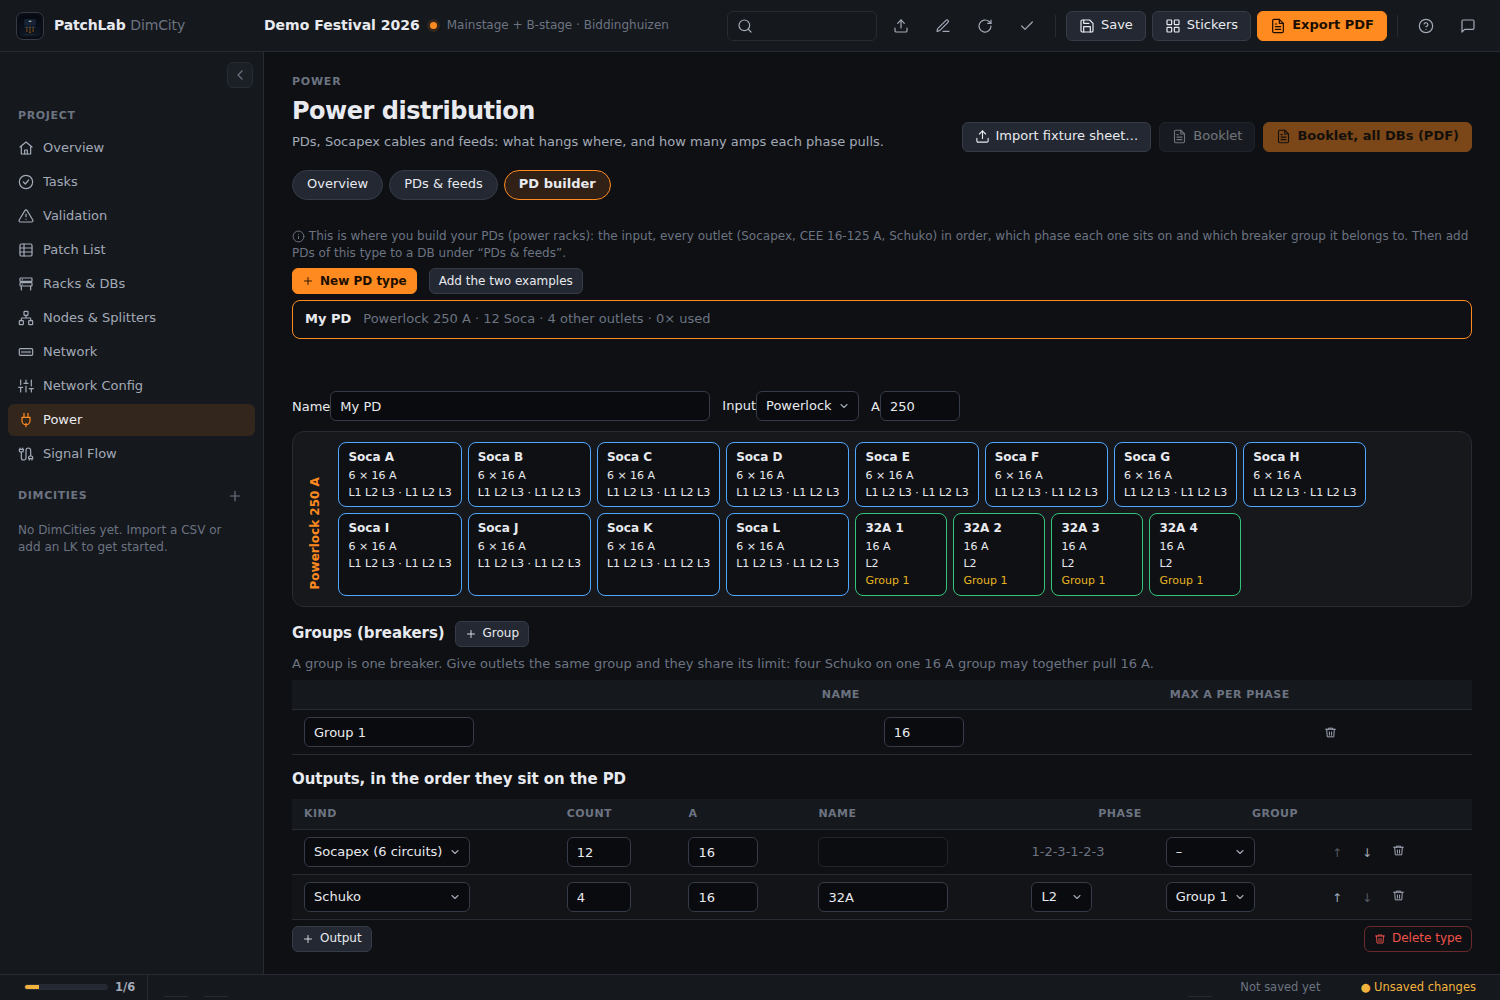
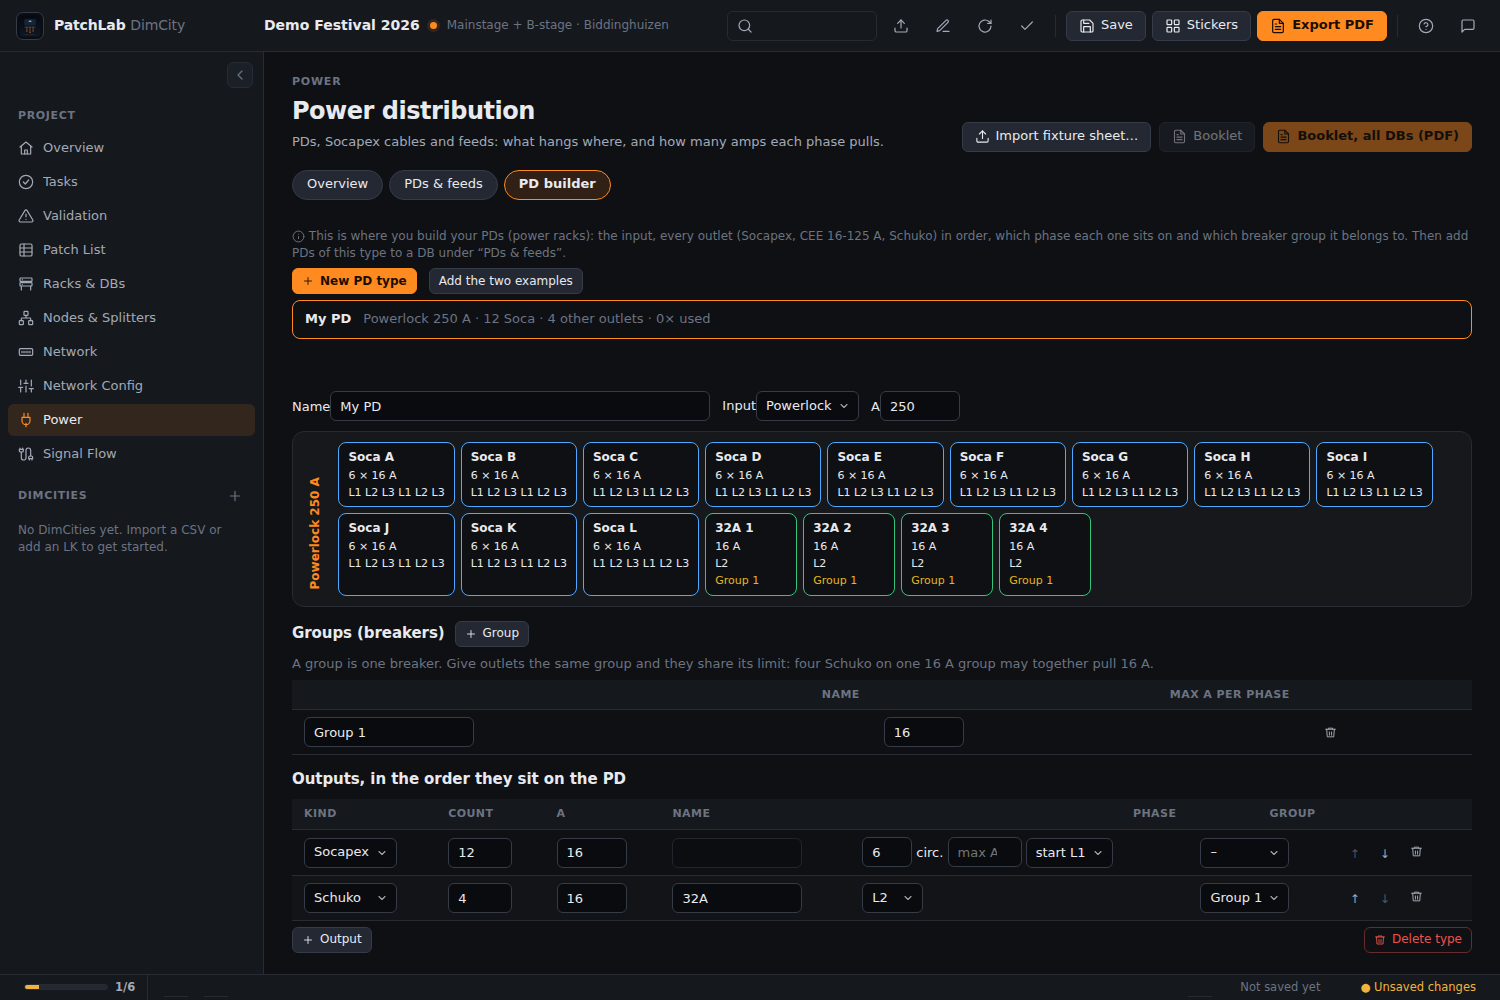
PD builder: Han 16 / Harting outputs, circuits per connector, start phase per output, output limit per phase (learned from PatchPrinter templates)
Claude-Session: https://claude.ai/code/session_011zJcwnePXPnek3P52mJGYA

diff --git a/ui/power.js b/ui/power.js
@@ -92,10 +92,9 @@
     const max = (p.feeds.find(f => f.id === d.feedId)?.max) || 0;
     const rows = [];
     for(const s of r.slots){
-      const circs = [1, 2, 3, 4, 5, 6], c = s.data;
-      circs.forEach((n, i) => { const k = c?.circuits.get(n), fx = k?.fixtures || [], ph = k ? k.phase : PW.phaseOf(n), a = k ? k.amps : 0;
-        rows.push(`<tr class="${i === 0 ? 'pw-first' : ''}">${i === 0 ? `<td rowspan="6" class="pw-soca">Soca ${s.letter}${s.cable ? `<br><small>${esc(s.cable)}</small>` : ''}</td>` : ''}<td>${r.slots.indexOf(s) + 1}.${n}</td><td>${esc(PW.dmxLabel(fx))}</td><td>${s.cable ? `${esc(s.cable)}-${n}` : ''}</td><td>${esc(PW.unitRanges(fx.map(f => f.unit)))}</td><td>${esc(PW.fixturesText(fx))}</td><td>${esc(PW.positionText(fx))}</td>${[1, 2, 3].map(q => `<td class="pw-n ${a > p.settings.circuitMax && ph === q ? 'bad' : ''}">${ph === q && a ? r1(a) : ''}</td>`).join('')}</tr>`); });
-      rows.push(`<tr class="pw-sum"><td colspan="7">Total Soca ${s.letter}</td>${phaseCells(s.perPhase)}</tr>`);
+      s.circs.forEach((k, i) => { const n = k.n, fx = k.fixtures, ph = k.phase, a = k.amps;
+        rows.push(`<tr class="${i === 0 ? 'pw-first' : ''}">${i === 0 ? `<td rowspan="${s.circs.length}" class="pw-soca">${esc(s.label)}${s.cable ? `<br><small>${esc(s.cable)}</small>` : ''}</td>` : ''}<td>${r.slots.indexOf(s) + 1}.${n}</td><td>${esc(PW.dmxLabel(fx))}</td><td>${s.cable ? `${esc(s.cable)}-${n}` : ''}</td><td>${esc(PW.unitRanges(fx.map(f => f.unit)))}</td><td>${esc(PW.fixturesText(fx))}</td><td>${esc(PW.positionText(fx))}</td>${[1, 2, 3].map(q => `<td class="pw-n ${a > p.settings.circuitMax && ph === q ? 'bad' : ''}">${ph === q && a ? r1(a) : ''}</td>`).join('')}</tr>`); });
+      rows.push(`<tr class="pw-sum"><td colspan="7">Total ${esc(s.label)}</td>${phaseCells(s.perPhase)}</tr>`);
     }
     const man = r.manual.map(o => { const m = d.manual[o.key] || {}; return `<tr><td>${esc(o.label)}</td><td><input data-man="${esc(d.id)}" data-key="${esc(o.key)}" data-k="label" value="${esc(m.label || '')}" style="width:160px"></td><td><input data-man="${esc(d.id)}" data-key="${esc(o.key)}" data-k="location" value="${esc(m.location || '')}" style="width:120px"></td>${['l1', 'l2', 'l3'].map((k, qi) => `<td>${o.phase && o.phases !== 3 && o.phase !== qi + 1 ? '' : `<input data-man="${esc(d.id)}" data-key="${esc(o.key)}" data-k="${k}" type="number" step="0.1" min="0" value="${m[k] || ''}" style="width:64px">`}</td>`).join('')}</tr>`; }).join('');
     return `<div class="pw-sec"><div class="pw-bar"><button id="pwBack">← ${t('Back', 'Terug')}</button><b style="font-size:18px">${esc(d.id)}</b><span class="subtle">${esc(r.type?.name || '')} · ${esc(p.feeds.find(f => f.id === d.feedId)?.name || t('no feed', 'geen voeding'))}</span><span style="flex:1"></span><b>${r.perPhase.map(r1).join(' / ')} A</b></div>
@@ -107,10 +106,11 @@
 
   // ---------- PD types: the PD builder ----------
   const PH = { 0:'', 1:'L1', 2:'L2', 3:'L3' }, PHC = { 1:'#a8652a', 2:'#3a3a3a', 3:'#8a8a8a' };
+  const multi = o => o.kind === 'soca';
   function typePreview(ty){
     const outs = PW.outletsOf(ty), gname = id => (ty.groups || []).find(g => g.id === id)?.name || '';
     if(!outs.length) return '';
-    const chip = o => { const ph = o.kind === 'soca' ? 'L1 L2 L3 · L1 L2 L3' : o.phases === 3 ? 'L1 L2 L3' : (PH[o.phase] || t('any phase', 'elke fase')); return `<div class="pw-out ${o.kind}"><b>${esc(o.label)}</b><span>${o.kind === 'soca' ? '6 × ' : ''}${o.amps || ''} A</span><span>${ph}</span>${o.group ? `<em>${esc(gname(o.group))}</em>` : ''}</div>`; };
+    const chip = o => { const ph = o.kind === 'soca' ? Array.from({ length: o.circuits }, (_, i) => 'L' + ((i + o.start) % 3 + 1)).join(' ') : o.phases === 3 ? 'L1 L2 L3' : (PH[o.phase] || t('any phase', 'elke fase')); return `<div class="pw-out ${o.kind}"><b>${esc(o.label)}</b><span>${o.kind === 'soca' ? o.circuits + ' × ' : ''}${o.amps || ''} A</span><span>${ph}</span>${o.group ? `<em>${esc(gname(o.group))}</em>` : ''}</div>`; };
     return `<div class="pw-front"><div class="pw-front-in"><span>${esc(ty.input?.kind || '')} ${ty.input?.amps || ''} A</span></div><div class="pw-front-outs">${outs.map(chip).join('')}</div></div>`;
   }
   function typesTab(p){
@@ -124,14 +124,14 @@
       <div class="subtle" style="margin-bottom:6px">${t('A group is one breaker. Give outlets the same group and they share its limit: four Schuko on one 16 A group may together pull 16 A.', 'Een groep is één automaat. Geef uitgangen dezelfde groep en ze delen zijn limiet: vier Schuko op één groep van 16 A mogen samen 16 A trekken.')}</div>
       ${(ty.groups || []).length ? `<table class="data-table pw-t"><thead><tr><th>${t('Name', 'Naam')}</th><th>${t('Max A per phase', 'Max A per fase')}</th><th></th></tr></thead><tbody>${ty.groups.map((g, i) => `<tr><td><input data-g="${i}" data-k="name" value="${esc(g.name)}" style="width:170px"></td><td><input data-g="${i}" data-k="amps" type="number" min="0" value="${g.amps || ''}" style="width:80px"></td><td><button class="sm ghost" data-delg="${i}">${I('trash', 13)}</button></td></tr>`).join('')}</tbody></table>` : ''}
       <h3>${t('Outputs, in the order they sit on the PD', 'Uitgangen, in de volgorde waarin ze op de PD zitten')}</h3><table class="data-table pw-t"><thead><tr><th>${t('Kind', 'Soort')}</th><th>${t('Count', 'Aantal')}</th><th>A</th><th>${t('Name', 'Naam')}</th><th>${t('Phase', 'Fase')}</th><th>${t('Group', 'Groep')}</th><th></th></tr></thead><tbody>
-      ${ty.outputs.map((o, i) => `<tr><td>${sel(`data-o="${i}" data-k="kind"`, [['soca', 'Socapex (6 circuits)'], ['cee', 'CEE'], ['schuko', 'Schuko']], o.kind)}</td><td><input data-o="${i}" data-k="count" type="number" min="1" value="${o.count || 1}" style="width:64px"></td><td><input data-o="${i}" data-k="amps" type="number" min="0" value="${o.amps || ''}" style="width:70px"></td>
+      ${ty.outputs.map((o, i) => `<tr><td>${sel(`data-o="${i}" data-k="kind"`, [['soca', 'Socapex'], ['han', 'Han 16'], ['harting', 'Harting'], ['cee', 'CEE'], ['schuko', 'Schuko']], multi(o) ? ({ 'Han 16': 'han', Harting: 'harting' }[o.conn] || 'soca') : o.kind)}</td><td><input data-o="${i}" data-k="count" type="number" min="1" value="${o.count || 1}" style="width:64px"></td><td><input data-o="${i}" data-k="amps" type="number" min="0" value="${o.amps || ''}" style="width:70px"></td>
         <td><input data-o="${i}" data-k="label" value="${esc(o.label || '')}" style="width:130px" ${o.kind === 'soca' ? 'disabled' : ''}></td>
-        <td>${o.kind === 'soca' ? `<span class="subtle">1-2-3-1-2-3</span>` : o.kind === 'cee' ? sel(`data-o="${i}" data-k="phases"`, [['1', t('1 phase', '1 fase')], ['3', t('3 phases', '3 fases')]], String(o.phases || 1)) + (o.phases === 3 ? '' : sel(`data-o="${i}" data-k="phase"`, [['0', t('any', 'elke')], ['1', 'L1'], ['2', 'L2'], ['3', 'L3']], String(o.phase || 0))) : sel(`data-o="${i}" data-k="phase"`, [['0', t('any', 'elke')], ['1', 'L1'], ['2', 'L2'], ['3', 'L3']], String(o.phase || 0))}</td>
+        <td>${o.kind === 'soca' ? `<input data-o="${i}" data-k="circuits" type="number" min="1" max="12" value="${o.circuits || (o.conn && o.conn !== 'Socapex' ? 8 : 6)}" style="width:50px" title="${t('circuits per connector', 'circuits per connector')}"> ${t('circ.', 'circ.')} <input data-o="${i}" data-k="bayAmps" type="number" min="0" value="${o.bayAmps || ''}" placeholder="${t('max A/phase', 'max A/fase')}" style="width:74px" title="${t('limit of the whole output per phase', 'limiet van de hele uitgang per fase')}"> ${sel(`data-o="${i}" data-k="start"`, [['0', t('start L1', 'start L1')], ['1', t('start L2', 'start L2')], ['2', t('start L3', 'start L3')]], String(o.start || 0))}` : o.kind === 'cee' ? sel(`data-o="${i}" data-k="phases"`, [['1', t('1 phase', '1 fase')], ['3', t('3 phases', '3 fases')]], String(o.phases || 1)) + (o.phases === 3 ? '' : sel(`data-o="${i}" data-k="phase"`, [['0', t('any', 'elke')], ['1', 'L1'], ['2', 'L2'], ['3', 'L3']], String(o.phase || 0))) : sel(`data-o="${i}" data-k="phase"`, [['0', t('any', 'elke')], ['1', 'L1'], ['2', 'L2'], ['3', 'L3']], String(o.phase || 0))}</td>
         <td>${sel(`data-o="${i}" data-k="group"`, grpOpts(), o.group || '')}</td>
         <td style="white-space:nowrap"><button class="sm ghost" data-up="${i}" ${i ? '' : 'disabled'} title="${t('Up', 'Omhoog')}">↑</button><button class="sm ghost" data-dn="${i}" ${i < ty.outputs.length - 1 ? '' : 'disabled'} title="${t('Down', 'Omlaag')}">↓</button><button class="sm ghost" data-delo="${i}">${I('trash', 13)}</button></td></tr>`).join('')}</tbody></table>
       <div class="pw-row"><button class="sm" id="tyAddO">${I('plus', 12)} ${t('Output', 'Uitgang')}</button><span style="flex:1"></span><button class="sm danger" id="tyDel">${I('trash', 12)} ${t('Delete type', 'Type verwijderen')}</button></div></div>` : `<div class="subtle">${t('Pick a type, or make a new one.', 'Kies een type, of maak een nieuwe.')}</div>`;
     return `<div class="pw-sec"><div class="hint">${I('info', 13)} ${t('This is where you build your PDs (power racks): the input, every outlet (Socapex, CEE 16-125 A, Schuko) in order, which phase each one sits on and which breaker group it belongs to. Then add PDs of this type to a DB under “PDs & feeds”.', 'Hier bouw je je PD’s (stroomracks): de ingang, elke uitgang (Socapex, CEE 16-125 A, Schuko) op volgorde, op welke fase elke zit en bij welke automaatgroep hij hoort. Voeg daarna onder “PD’s & voedingen” PD’s van dit type aan een DB toe.')}</div>
-      <div class="pw-row"><button class="sm primary" id="tyNew">${I('plus', 12)} ${t('New PD type', 'Nieuw PD-type')}</button><button class="sm" id="tySamples">${t('Add the two examples', 'Voeg de twee voorbeelden toe')}</button></div>${list || `<div class="subtle">${t('No PD types yet.', 'Nog geen PD-typen.')}</div>`}</div>${ed}`;
+      <div class="pw-row"><button class="sm primary" id="tyNew">${I('plus', 12)} ${t('New PD type', 'Nieuw PD-type')}</button><button class="sm" id="tyHan">${t('Add Han 16 example', 'Voeg Han 16-voorbeeld toe')}</button><button class="sm" id="tySamples">${t('Add the two examples', 'Voeg de twee voorbeelden toe')}</button></div>${list || `<div class="subtle">${t('No PD types yet.', 'Nog geen PD-typen.')}</div>`}</div>${ed}`;
   }
 
   // ---------- events ----------
@@ -165,12 +165,15 @@
     // types
     qa('[data-ty]').forEach(e => e.onclick = () => { U.type = e.dataset.ty; render(); });
     const tn = q('#tyNew'); if(tn) tn.onclick = () => { const ty = { id:PW.newId('PDT:'), name:t('New PD', 'Nieuwe PD'), input:{ kind:'Powerlock', amps:250 }, outputs:[{ kind:'soca', count:12, amps:16 }] }; p.types.push(ty); U.type = ty.id; redo(); };
+    const th = q('#tyHan'); if(th) th.onclick = () => { for(const s of PW.EXTRA_TYPES) if(!p.types.some(x => x.id === s.id)) p.types.push(JSON.parse(JSON.stringify(s))); redo(); };
     const ts = q('#tySamples'); if(ts) ts.onclick = () => { for(const s of PW.SAMPLE_TYPES) if(!p.types.some(x => x.id === s.id)) p.types.push(JSON.parse(JSON.stringify(s))); redo(); };
     const ty = p.types.find(x => x.id === U.type);
     const bv = (id, fn) => { const e = q(id); if(e) e.onchange = () => { fn(e.value); redo(); }; };
     if(ty){
       bv('#tyName', v => { ty.name = v; }); bv('#tyIn', v => { ty.input = { ...(ty.input || {}), kind:v }; }); bv('#tyAmps', v => { ty.input = { ...(ty.input || {}), amps:Number(v) || 0 }; });
-      qa('[data-o]').forEach(e => e.onchange = () => { const o = ty.outputs[Number(e.dataset.o)], k = e.dataset.k; o[k] = ['count', 'amps', 'phases', 'phase'].includes(k) ? Number(e.value) || 0 : e.value; redo(); });
+      qa('[data-o]').forEach(e => e.onchange = () => { const o = ty.outputs[Number(e.dataset.o)], k = e.dataset.k; if(k === 'kind' && ['soca', 'han', 'harting'].includes(e.value)){ o.kind = 'soca'; o.conn = { soca: 'Socapex', han: 'Han 16', harting: 'Harting' }[e.value]; o.circuits = e.value === 'soca' ? 6 : 8; if(e.value === 'soca') delete o.label; }
+        else if(k === 'kind'){ o.kind = e.value; delete o.conn; delete o.circuits; delete o.start; }
+        else o[k] = ['count', 'amps', 'phases', 'phase', 'circuits', 'start', 'bayAmps'].includes(k) ? Number(e.value) || 0 : e.value; redo(); });
       qa('[data-g]').forEach(e => e.onchange = () => { const g = ty.groups[Number(e.dataset.g)], k = e.dataset.k; g[k] = k === 'amps' ? Number(e.value) || 0 : e.value; redo(); });
       const ag = q('#tyAddG'); if(ag) ag.onclick = () => { ty.groups = ty.groups || []; ty.groups.push({ id:PW.newId('G'), name:`${t('Group', 'Groep')} ${ty.groups.length + 1}`, amps:16 }); redo(); };
       qa('[data-delg]').forEach(b => b.onclick = () => { const g = ty.groups.splice(Number(b.dataset.delg), 1)[0]; ty.outputs.forEach(o => { if(o.group === g.id) o.group = ''; }); redo(); });
@@ -212,8 +215,8 @@ tr.g1 td:not(.sc){background:#f5f7fb}tr.sum td{font-weight:700;background:#e4e8f
       for(const d of pds){
         const r = R.pds.get(d.id), max = p.feeds.find(f => f.id === d.feedId)?.max || 0, sub = `${esc(r.type?.name || '')}`;
         if(r.slots.length){
-          const rows = r.slots.map((s, si) => [1, 2, 3, 4, 5, 6].map(n => { const k = s.data?.circuits.get(n), fx = k?.fixtures || [], ph = k ? k.phase : PW.phaseOf(n);
-            return `<tr class="${si % 2 ? 'g1' : ''} ${n === 1 ? 'top' : ''}">${n === 1 ? `<td class="sc" rowspan="6">Soca ${s.letter}<br><small>${esc(s.cable)}</small></td>` : ''}<td>${si + 1}.${n}</td><td>${esc(PW.dmxLabel(fx))}</td><td>${s.cable ? esc(s.cable) + '-' + n : ''}</td><td>${esc(PW.unitRanges(fx.map(f => f.unit)))}</td><td>${esc(PW.fixturesText(fx))}</td><td>${esc(PW.positionText(fx))}</td>${[1, 2, 3].map(q => `<td class="n ${k && ph === q && k.amps > p.settings.circuitMax ? 'bad' : ''}">${k && ph === q ? r1(k.amps) : ''}</td>`).join('')}</tr>`; }).join('') + `<tr class="sum"><td colspan="7">Total Soca ${s.letter}</td>${n1(s.perPhase)}</tr>`).join('');
+          const rows = r.slots.map((s, si) => s.circs.map(k => { const n = k.n, fx = k.fixtures, ph = k.phase;
+            return `<tr class="${si % 2 ? 'g1' : ''} ${n === 1 ? 'top' : ''}">${n === 1 ? `<td class="sc" rowspan="${s.circs.length}">${esc(s.label)}<br><small>${esc(s.cable)}</small></td>` : ''}<td>${si + 1}.${n}</td><td>${esc(PW.dmxLabel(fx))}</td><td>${s.cable ? esc(s.cable) + '-' + n : ''}</td><td>${esc(PW.unitRanges(fx.map(f => f.unit)))}</td><td>${esc(PW.fixturesText(fx))}</td><td>${esc(PW.positionText(fx))}</td>${[1, 2, 3].map(q => `<td class="n ${ph === q && k.amps > p.settings.circuitMax ? 'bad' : ''}">${ph === q && k.amps ? r1(k.amps) : ''}</td>`).join('')}</tr>`; }).join('') + `<tr class="sum"><td colspan="7">Total ${esc(s.label)}</td>${n1(s.perPhase)}</tr>`).join('');
           pages.push(`<div class="pg small">${head(d.id)}<h2>${esc(d.id)} <span class="dim" style="font-size:13px">${sub}</span></h2><table><thead><tr><th></th><th>CH</th><th>DMX</th><th>Multi</th><th>Fix nr.</th><th>Fixtures</th><th>Location</th>${LH}</tr></thead><tbody>${rows}<tr class="sum"><td colspan="7">TOTAL ${esc(d.id)}</td>${n1(r.perPhase, max)}</tr></tbody></table></div>`);
         }
         if(r.manual.length) pages.push(`<div class="pg">${head(d.id)}<h2>${esc(d.id)} <span class="dim" style="font-size:13px">${sub}</span></h2><table><tr><th>Outlet</th><th>Name</th><th>Location</th>${LH}</tr>${r.manual.map(o => `<tr><td><b>${esc(o.label)}</b></td><td>${esc(o.label2)}</td><td>${esc(o.location)}</td>${n1(o.perPhase)}</tr>`).join('')}<tr class="sum"><td colspan="3">TOTAL</td>${n1(r.manual.reduce((a, o) => a.map((x, i) => x + o.perPhase[i]), [0, 0, 0]))}</tr></table></div>`);

diff --git a/core/power.js b/core/power.js
@@ -69,13 +69,16 @@ export const SAMPLE_TYPES = [
   { id: 'PDT:soca12', name: 'PSU Powerlock → 12x Soca + 12x Sch/CEE + 32/63A', input: { kind: 'Powerlock', amps: 250 }, outputs: [{ kind: 'soca', count: 12, amps: 16 }, { kind: 'cee', count: 12, amps: 16, label: 'Schuko/CEE' }, { kind: 'cee', count: 1, amps: 32, label: '32A', phases: 3 }, { kind: 'cee', count: 1, amps: 63, label: '63A', phases: 3 }] },
   { id: 'PDT:pd400', name: 'PD400 → 3x 125/63/32 + 3x Schuko', input: { kind: 'Powerlock', amps: 400 }, outputs: [{ kind: 'cee', count: 3, amps: 125, label: '125A', phases: 3 }, { kind: 'cee', count: 3, amps: 63, label: '63A', phases: 3 }, { kind: 'cee', count: 3, amps: 32, label: '32A', phases: 3 }, { kind: 'schuko', count: 3, amps: 16, label: 'Schuko' }] }
 ];
+export const EXTRA_TYPES = [
+  { id: 'PDT:han8', name: 'PSU Powerlock → 8x Han 16 (8 ch) + Schuko', input: { kind: 'Powerlock', amps: 250 }, outputs: [{ kind: 'soca', conn: 'Han 16', circuits: 8, count: 4, amps: 16, bayAmps: 80, start: 0 }, { kind: 'soca', conn: 'Han 16', circuits: 8, count: 4, amps: 16, bayAmps: 80, start: 2 }, { kind: 'schuko', count: 2, amps: 16, label: 'Schuko' }] }
+];
 // the outlets of a PD type, in order: Socapex cables first (A, B, C …), then the other outlets with a running number
 export function outletsOf(type){
   const out = []; let soca = 0;
   for(const o of type?.outputs || []){
     const n = Math.max(0, Number(o.count) || 0);
     for(let i = 0; i < n; i++){
-      if(o.kind === 'soca'){ out.push({ key: 'S' + LETTERS[soca], kind: 'soca', label: 'Soca ' + LETTERS[soca], amps: num(o.amps) || 16, group: o.group || '' }); soca++; }
+      if(o.kind === 'soca'){ const conn = o.conn || 'Socapex', short = conn === 'Socapex' ? 'Soca' : conn === 'Han 16' ? 'Han' : 'Harting'; out.push({ key: 'S' + LETTERS[soca], kind: 'soca', conn, short, circuits: Math.max(1, Number(o.circuits) || (conn === 'Socapex' ? 6 : 8)), start: ((Number(o.start) || 0) % 3 + 3) % 3, label: short + ' ' + LETTERS[soca], amps: num(o.amps) || 16, bayAmps: num(o.bayAmps), group: o.group || '' }); soca++; }
       else { const lab = o.label || (o.kind === 'schuko' ? 'Schuko' : (o.amps || '') + 'A'); out.push({ key: `${lab}#${i + 1}`, kind: o.kind, label: n > 1 ? `${lab} ${i + 1}` : lab, amps: num(o.amps), phases: o.kind === 'cee' && o.phases === 3 ? 3 : 1, phase: o.kind === 'cee' && o.phases === 3 ? 0 : (Number(o.phase) || 0), group: o.group || '' }); }
     }
   }
@@ -156,17 +159,22 @@ export function compute(P, dims = []){
     socas.forEach((o, i) => {
       const name = d.cables[i] || '', c = name ? cables.get(name) : null;
       if(name) res.assigned.add(name);
-      r.slots.push({ letter: o.label.replace('Soca ', ''), cable: name, data: c || null, perPhase: c ? c.perPhase.slice() : zero() });
-      if(c) addTo(r.perPhase, c.perPhase);
+      // circuit n sits on phase ((n-1+start) mod 3)+1: a bay can start on another phase so the PD stays balanced
+      const circs = []; for(let n = 1; n <= o.circuits; n++){ const k = c?.circuits.get(n); circs.push({ n, phase: (n - 1 + o.start) % 3 + 1, amps: k ? k.amps : 0, fixtures: k ? k.fixtures : [], watt: k ? k.watt : 0 }); }
+      const per = zero(); for(const k of circs) per[k.phase - 1] += k.amps;
+      r.slots.push({ key: o.key, letter: o.label.split(' ').pop(), short: o.short, label: o.label, circuits: o.circuits, circs, cable: name, data: c || null, perPhase: per });
+      addTo(r.perPhase, per);
+      if(c) for(const k of c.circuits.keys()) if(k > o.circuits) warn('err', `${d.id} ${o.label} (${name}): circuit ${k} does not exist, this output has ${o.circuits}.`, d.id);
+      if(o.bayAmps && per.some(x => x > o.bayAmps + 1e-9)) warn('err', `${d.id} ${o.label}: ${per.map(round1).join(' / ')} A is more than the ${o.bayAmps} A of this output.`, d.id);
     });
     if(d.cables.length > socas.length) warn('err', `${d.id}: ${d.cables.length} cables but only ${socas.length} Socapex outputs.`, d.id);
     for(const o of outs.filter(o => o.kind !== 'soca')){ const m = d.manual[o.key] || {}, a = [num(m.l1), num(m.l2), num(m.l3)]; r.manual.push({ ...o, label2: m.label || '', location: m.location || '', perPhase: a }); addTo(r.perPhase, a); }
     // the breaker groups of the type (a group can carry several outlets, they share its limit)
-    r.groups = (type?.groups || []).map(g => { const per = zero(); let n = 0; for(const o of outs) if(o.group === g.id){ n++; if(o.kind === 'soca'){ const sl = r.slots.find(x => 'Soca ' + x.letter === o.label); if(sl) addTo(per, sl.perPhase); } else { const m = r.manual.find(x => x.key === o.key); if(m) addTo(per, m.perPhase); } } return { ...g, outlets: n, perPhase: per }; });
+    r.groups = (type?.groups || []).map(g => { const per = zero(); let n = 0; for(const o of outs) if(o.group === g.id){ n++; if(o.kind === 'soca'){ const sl = r.slots.find(x => x.key === o.key); if(sl) addTo(per, sl.perPhase); } else { const m = r.manual.find(x => x.key === o.key); if(m) addTo(per, m.perPhase); } } return { ...g, outlets: n, perPhase: per }; });
     for(const g of r.groups) if(num(g.amps) && g.perPhase.some(x => x > num(g.amps) + 1e-9)) warn('err', `${d.id} group ${g.name}: ${g.perPhase.map(round1).join(' / ')} A is more than ${g.amps} A.`, d.id);
     res.pds.set(d.id, r);
     if(!d.feedId) warn('warn', `${d.id} has no feed (Powerlock run).`, d.id);
-    for(const s of r.slots) for(const k of (s.data?.circuits.values() || [])) if(k.amps > S.circuitMax + 1e-9) warn('err', `${d.id} Soca ${s.letter} (${s.cable}-${k.n}): ${round1(k.amps)} A is more than ${S.circuitMax} A.`, d.id);
+    for(const s of r.slots) for(const k of s.circs) if(k.amps > (num(r.outs.find(x => x.key === s.key)?.amps) || S.circuitMax) + 1e-9) warn('err', `${d.id} ${s.label} (${s.cable}-${k.n}): ${round1(k.amps)} A is more than ${S.circuitMax} A.`, d.id);
   }
   for(const c of cables.values()) if(!res.assigned.has(c.name)){ const dc = dimOfCable(c.name, dims); warn('warn', `Cable ${c.name} (${round1(c.perPhase.reduce((a, b) => a + b, 0))} A) is not on a PD${dc ? ' of ' + dc : ''}.`, c.name); }
   const own = new Map(); for(const f of P.feeds) own.set(f.id, zero());
